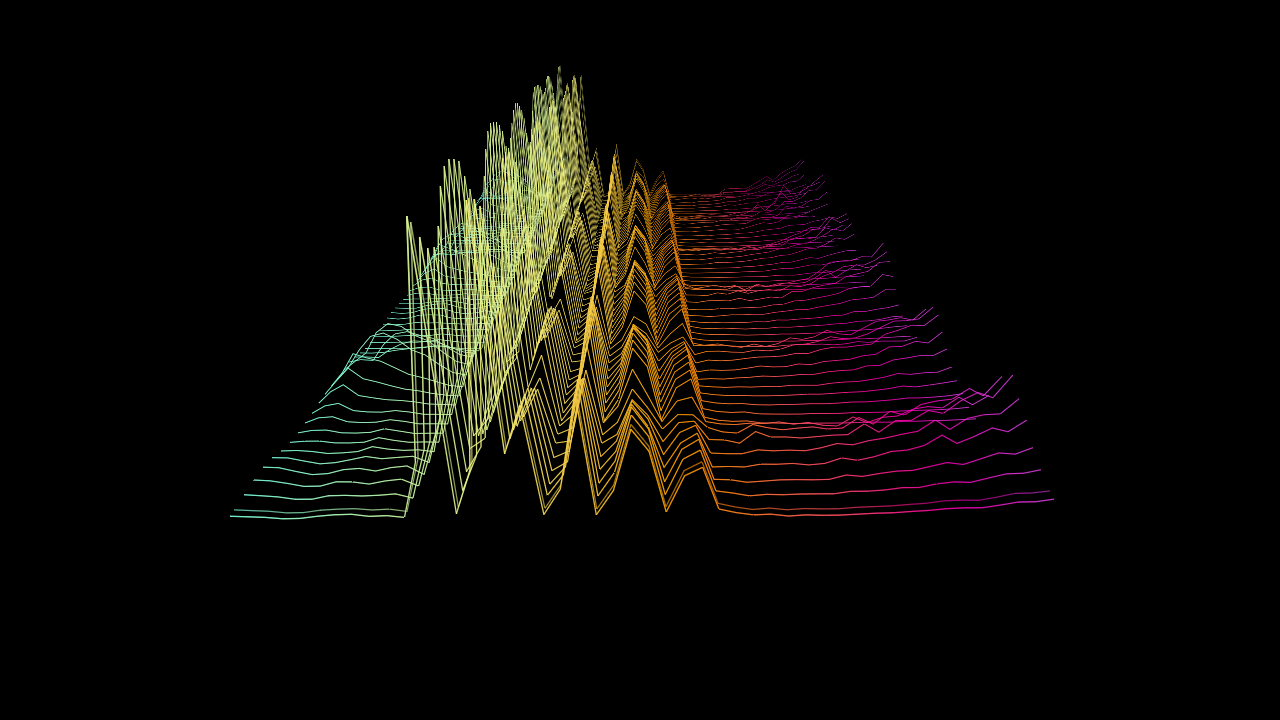
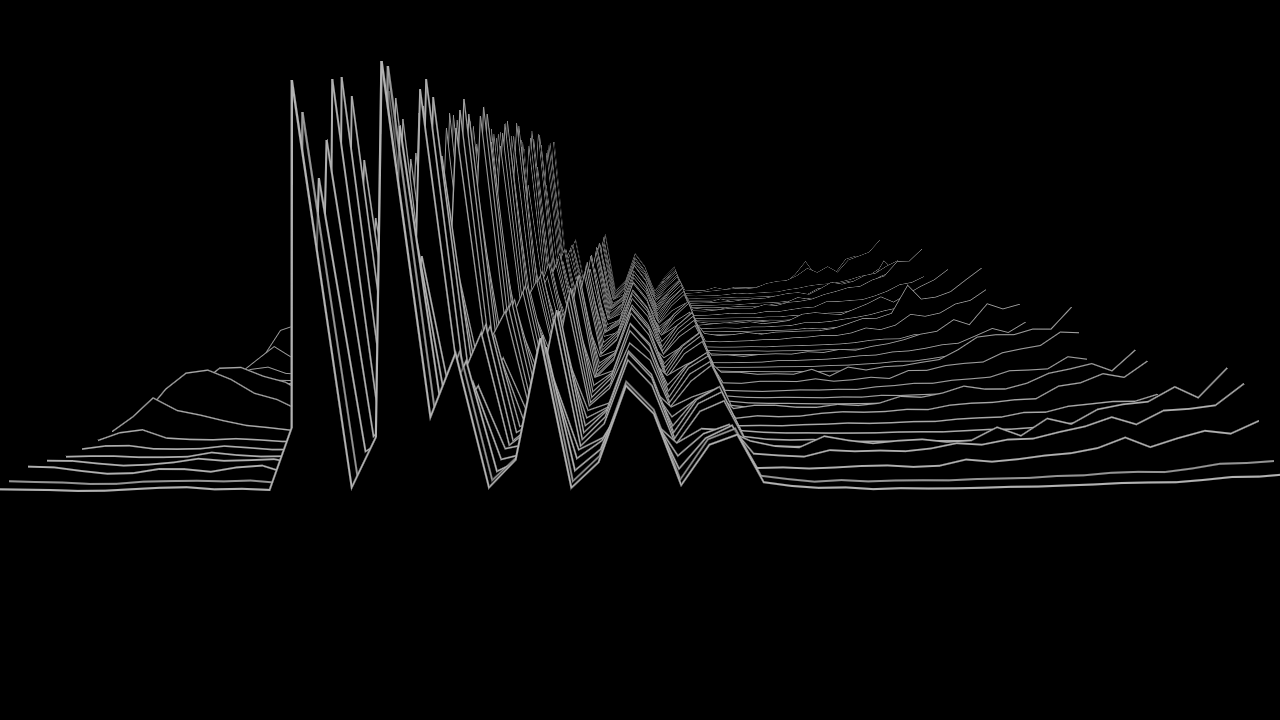
docs(gallery): curate the voxel and waterfall family slots
Owner curation of e2aed1da, which shipped outside a plan. The voxel
slot keeps Voxel Nebula, now judged rather than UNJUDGED. Ember and
Nebula stay the representatives, and Clouds stays teaching-only.

The waterfall slot moves from the teaching landscape to the shipped
Ridgeline, the owner's pick over Tidepool. It is re-rendered, and the
guide caption is rewritten to match. Two stale "ships no preset yet"
comments on the plexus sheet and voxel solid entries are corrected.

Changed region(s): [[0.0, 0.0917, 1.0, 0.7333], [0.9375, 0.5806, 0.9688, 0.6111]]

diff --git a/docs/preset-guide.md b/docs/preset-guide.md
@@ -473,13 +473,13 @@ so the quality tier caps it. The layouts and every structural key are in the
 
 ### `waterfall`
 
-![A landscape of thin coloured lines seen from a little above: row after row of the music's spectrum
-laid out front to back, low frequencies in green on the left rising into tall yellow and orange
-peaks in the middle and settling into low magenta ridges on the right, the rows receding toward a
-horizon on black](images/gallery/waterfall.png)
+![White ridge lines on black seen almost edge-on: row after row of the music's spectrum stacked
+front to back, tall jagged peaks crowded at the low end on the left settling into a low, calm plain
+on the right](images/gallery/waterfall.png)
 
-*The teaching preset [`docs/examples/waterfall/landscape.toml`](examples/waterfall/landscape.toml);
-the shipped set has `waterfall_*.toml`*
+*The shipped preset [`presets/waterfall_ridgeline.toml`](../presets/waterfall_ridgeline.toml); the
+teaching preset [`docs/examples/waterfall/landscape.toml`](examples/waterfall/landscape.toml) is
+the coloured version, seen from a little above*
 
 The **spectrum's recent past as terrain**. Every fraction of a second the current band levels become
 a new row at the front, and the rows before it step back into the distance, so a sustained note
